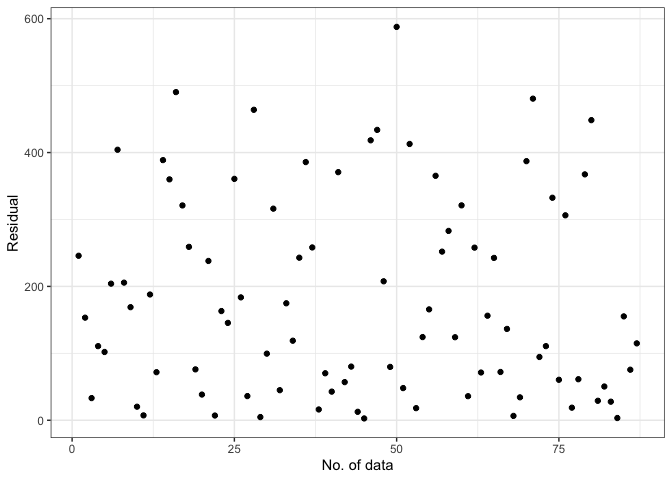
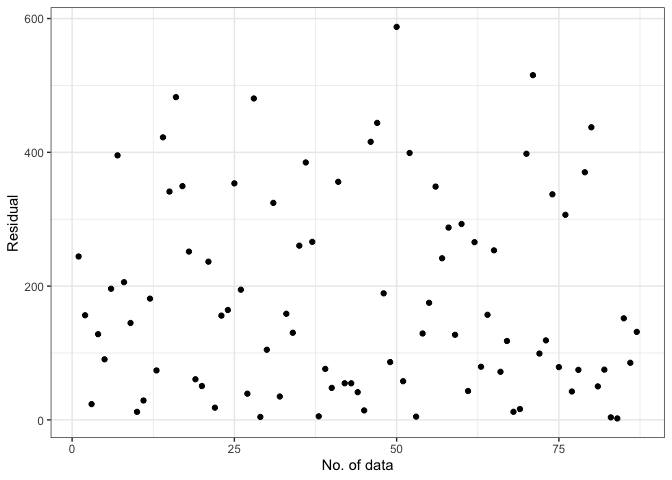
Update files

diff --git a/README.md b/README.md
@@ -49,12 +49,12 @@ plot_histogram(data, 12)
     #>  [1]   0  50 100 150 200 250 300 350 400 450 500 550 600
     #> 
     #> $counts
-    #>  [1] 21 14  9  9  7  5  5  8  5  3  0  1
+    #>  [1] 18 17  9 11  4  7  6  7  4  2  1  1
     #> 
     #> $density
-    #>  [1] 0.0048275862 0.0032183908 0.0020689655 0.0020689655 0.0016091954
-    #>  [6] 0.0011494253 0.0011494253 0.0018390805 0.0011494253 0.0006896552
-    #> [11] 0.0000000000 0.0002298851
+    #>  [1] 0.0041379310 0.0039080460 0.0020689655 0.0025287356 0.0009195402
+    #>  [6] 0.0016091954 0.0013793103 0.0016091954 0.0009195402 0.0004597701
+    #> [11] 0.0002298851 0.0002298851
     #> 
     #> $mids
     #>  [1]  25  75 125 175 225 275 325 375 425 475 525 575
@@ -79,39 +79,39 @@ random_forest_rash(dataset)
 #> # A tibble: 800 × 2
 #>         pred actual
 #>    <dbl[1d]>  <int>
-#>  1    0.0570      0
-#>  2    0.356       0
-#>  3    0.0240      0
-#>  4    0.0138      0
-#>  5    0.0532      0
-#>  6    0.564       1
-#>  7    0.0746      0
-#>  8    0.727       1
-#>  9    0.0647      0
-#> 10    0.653       1
+#>  1         0      0
+#>  2         0      0
+#>  3         0      0
+#>  4         0      0
+#>  5         0      0
+#>  6         1      1
+#>  7         0      0
+#>  8         1      1
+#>  9         0      0
+#> 10         1      1
 #> # ℹ 790 more rows
 #> 
 #> $pa_test
 #> # A tibble: 131 × 2
 #>         pred actual
 #>    <dbl[1d]>  <int>
-#>  1    0.0920      0
-#>  2    0.336       0
-#>  3    0.163       0
-#>  4    0.0485      0
-#>  5    0.643       1
-#>  6    0.0181      0
-#>  7    0.500       1
-#>  8    0.654       1
-#>  9    0.0855      0
-#> 10    0.0235      0
+#>  1         0      0
+#>  2         0      0
+#>  3         0      0
+#>  4         0      0
+#>  5         1      1
+#>  6         0      0
+#>  7         1      1
+#>  8         1      1
+#>  9         0      0
+#> 10         0      0
 #> # ℹ 121 more rows
 #> 
 #> $accuracy_train
-#> [1] 0.7915797
+#> [1] 0.9525
 #> 
 #> $accuracy_test
-#> [1] 0.6869617
+#> [1] 0.7175573
 ```
 
 ## Test Coverage
